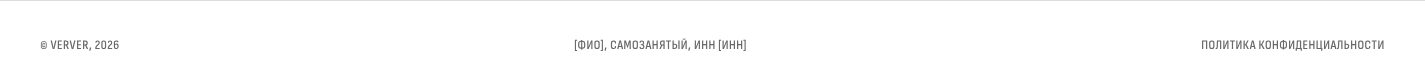
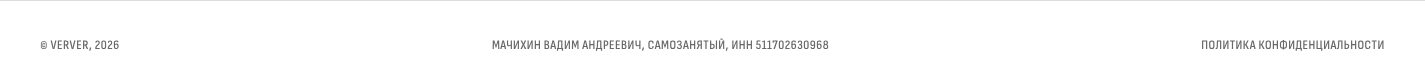
Портфолио: имя, ФИО, ИНН, Telegram и почта Вадима
Claude-Session: https://claude.ai/code/session_01EqjaGEMsxfvaRW2MYHcQtJ

Changed region(s): [[0.3396, 0.4878, 0.5867, 0.6341]]

diff --git a/src/site.ts b/src/site.ts
@@ -2,10 +2,10 @@
 // подвал и политику конфиденциальности. Фото: положить файл src/assets/me.jpg (квадратное, от 400 px),
 // пока его нет, у формы стоит заглушка со знаком.
 export const owner = {
-  name: "[ИМЯ]", // как подписываться: «Отвечу я, Иван»
-  fullName: "[ФИО]", // для подвала и политики конфиденциальности
+  name: "Вадим", // как подписываться: «Отвечу я, Иван»
+  fullName: "Мачихин Вадим Андреевич", // для подвала и политики конфиденциальности
   status: "самозанятый", // или «ИП»
-  inn: "[ИНН]",
-  telegram: "[ник]", // без @
-  email: "[почта]",
+  inn: "511702630968",
+  telegram: "notverver", // без @
+  email: "vadik32140@gmail.com",
 };

diff --git a/README.md b/README.md
@@ -84,8 +84,8 @@ npm run check:release -- --site ../../dist   # перед публикацией
 
 ## Что заполнить перед публикацией
 
-- Имя, ФИО, ИНН, Telegram и почту в `src/site.ts` (один файл на весь сайт).
-- Фото: квадратный файл от 400 px в `src/assets/me.jpg`.
+- Имя, ФИО, ИНН, Telegram и почта уже в `src/site.ts`; если что-то поменяется, править там (один файл на весь сайт).
+- Фото по желанию: квадратный файл от 400 px в `src/assets/me.jpg`, без него у формы круг со знаком.
 - Номер формы Formspree (`YOUR_FORM_ID`), см. «Заявки».
 - Пометки `[ЗАПОЛНИТЬ…]` в `src/pages/privacy.astro`: дата, срок хранения, куда уходят заявки, есть ли Метрика.
 - Цены и сроки в `src/components/Prices.astro`: сейчас это цены для первых пяти проектов; когда наберутся кейсы и отзывы, поднять цифры, диапазоны «обычно …» и убрать строку «Первые пять проектов». Гарантия «верну предоплату, если прототип главной не понравится» написана в ценах и в вопросе про оплату: если условия поменяются, править в обоих местах.
